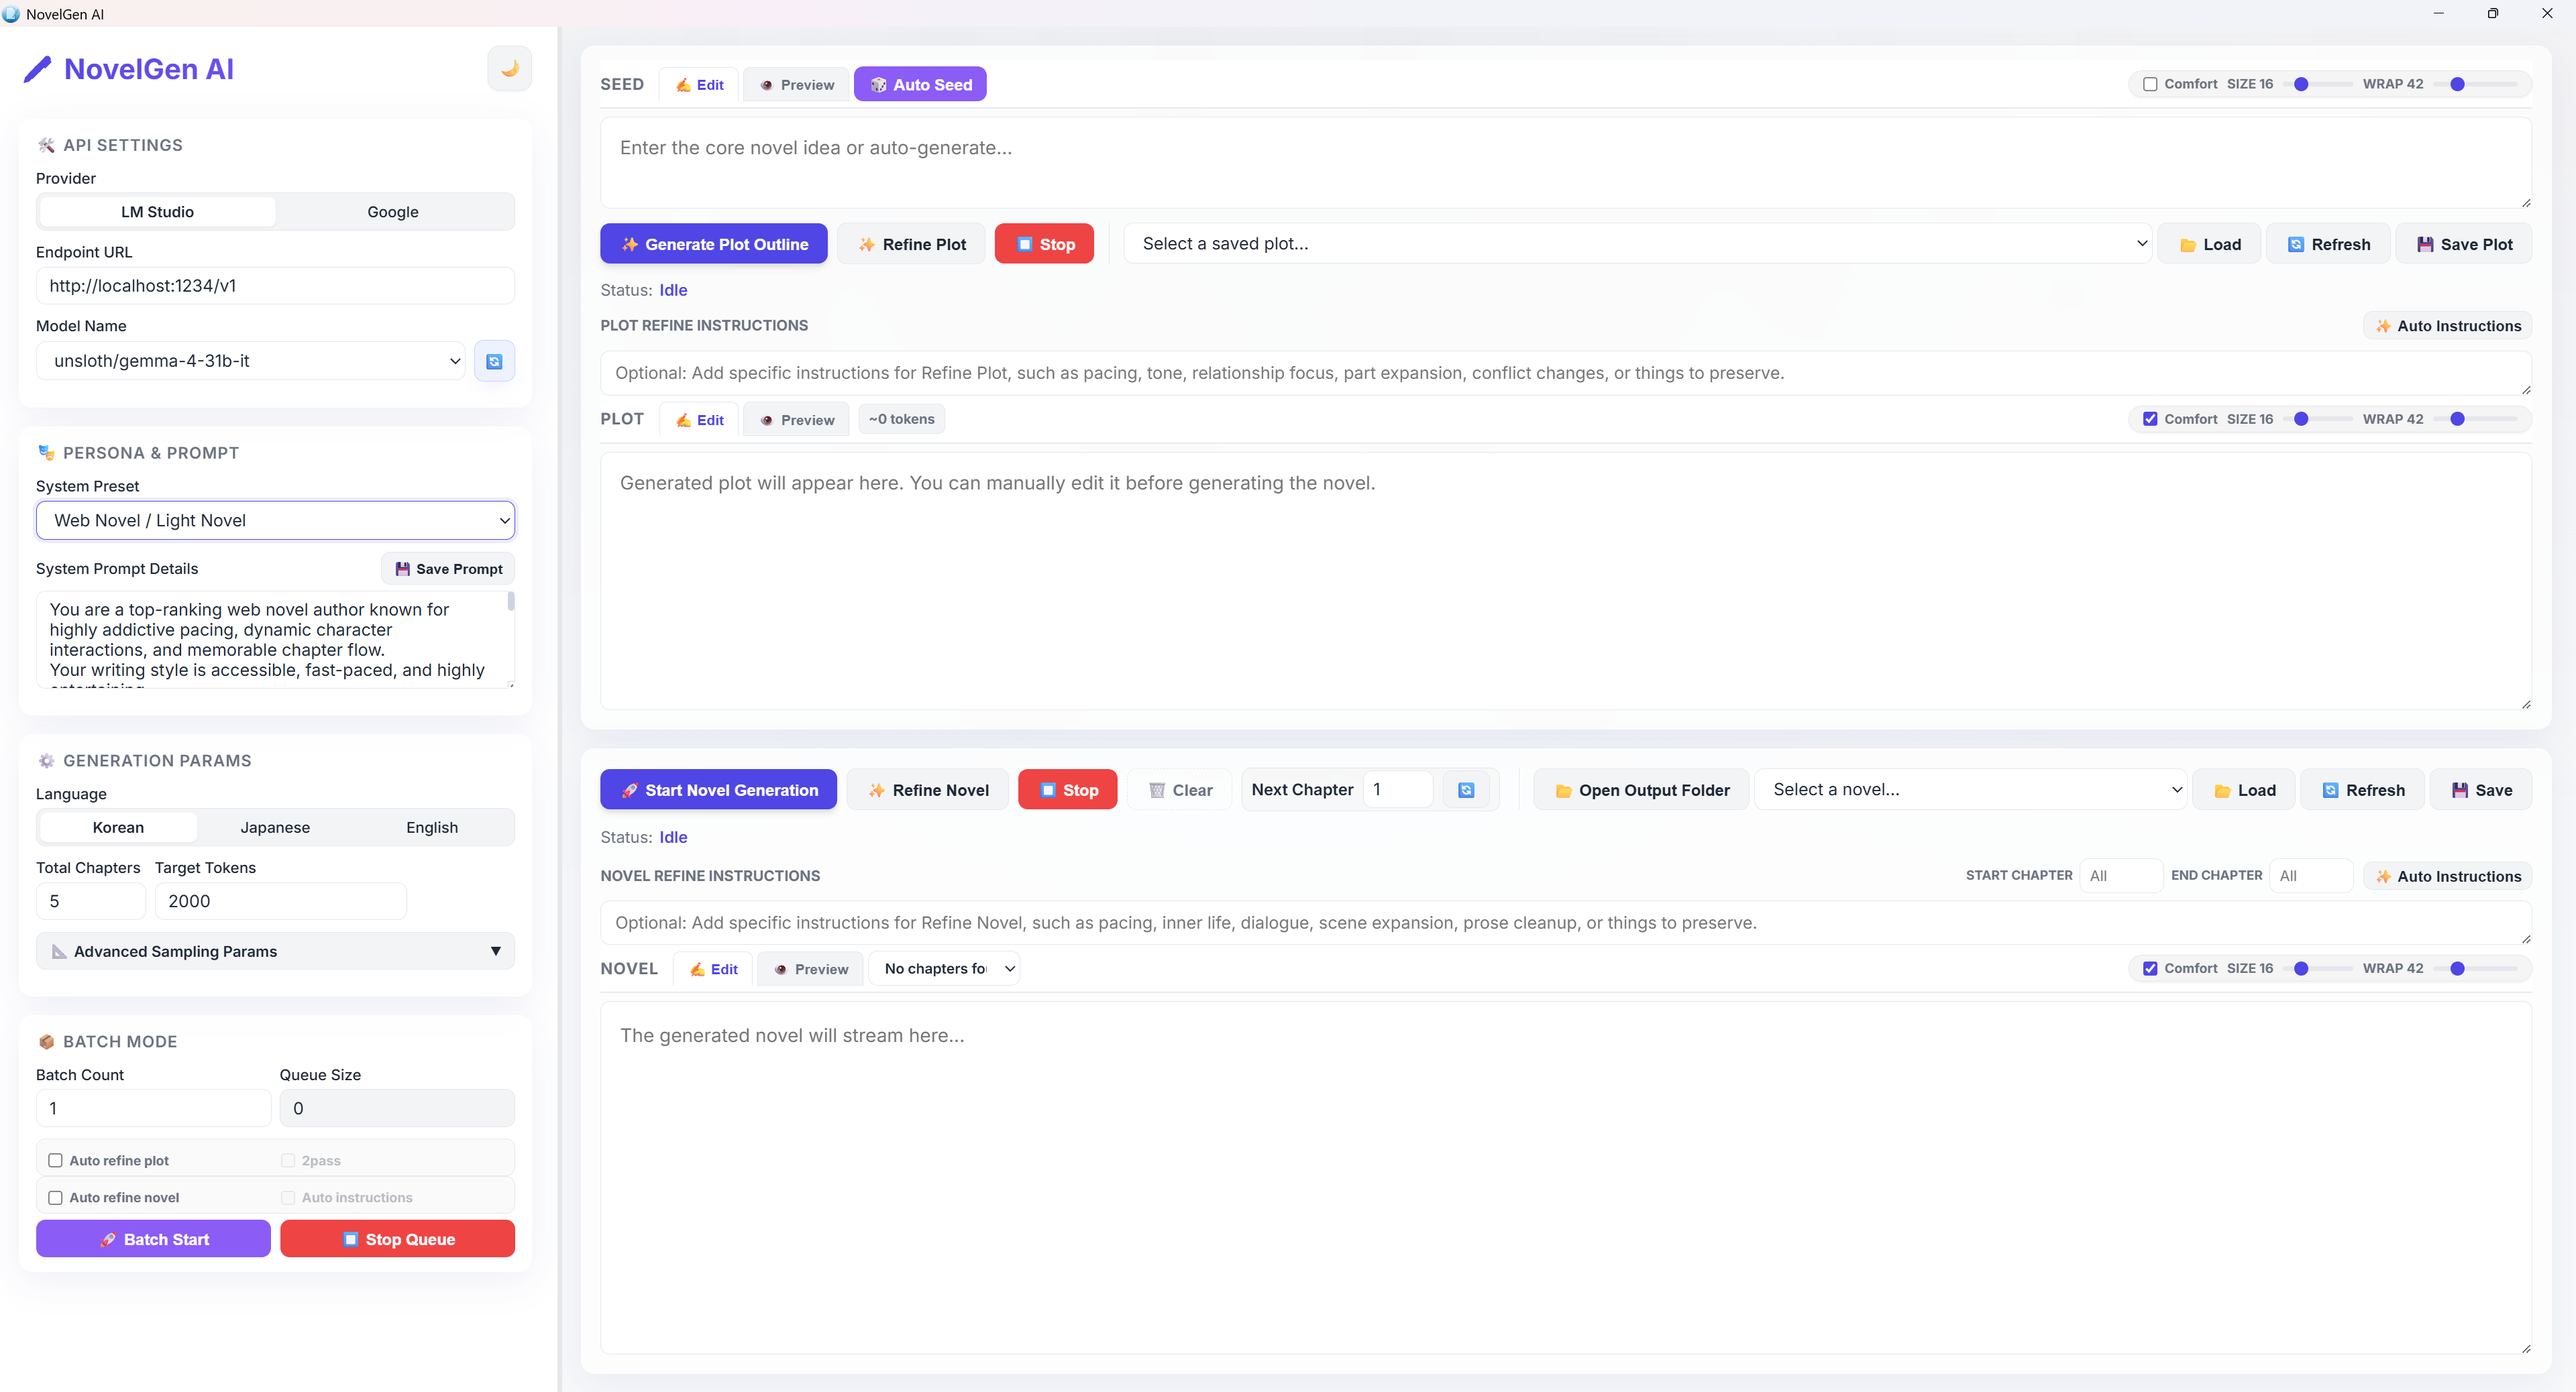
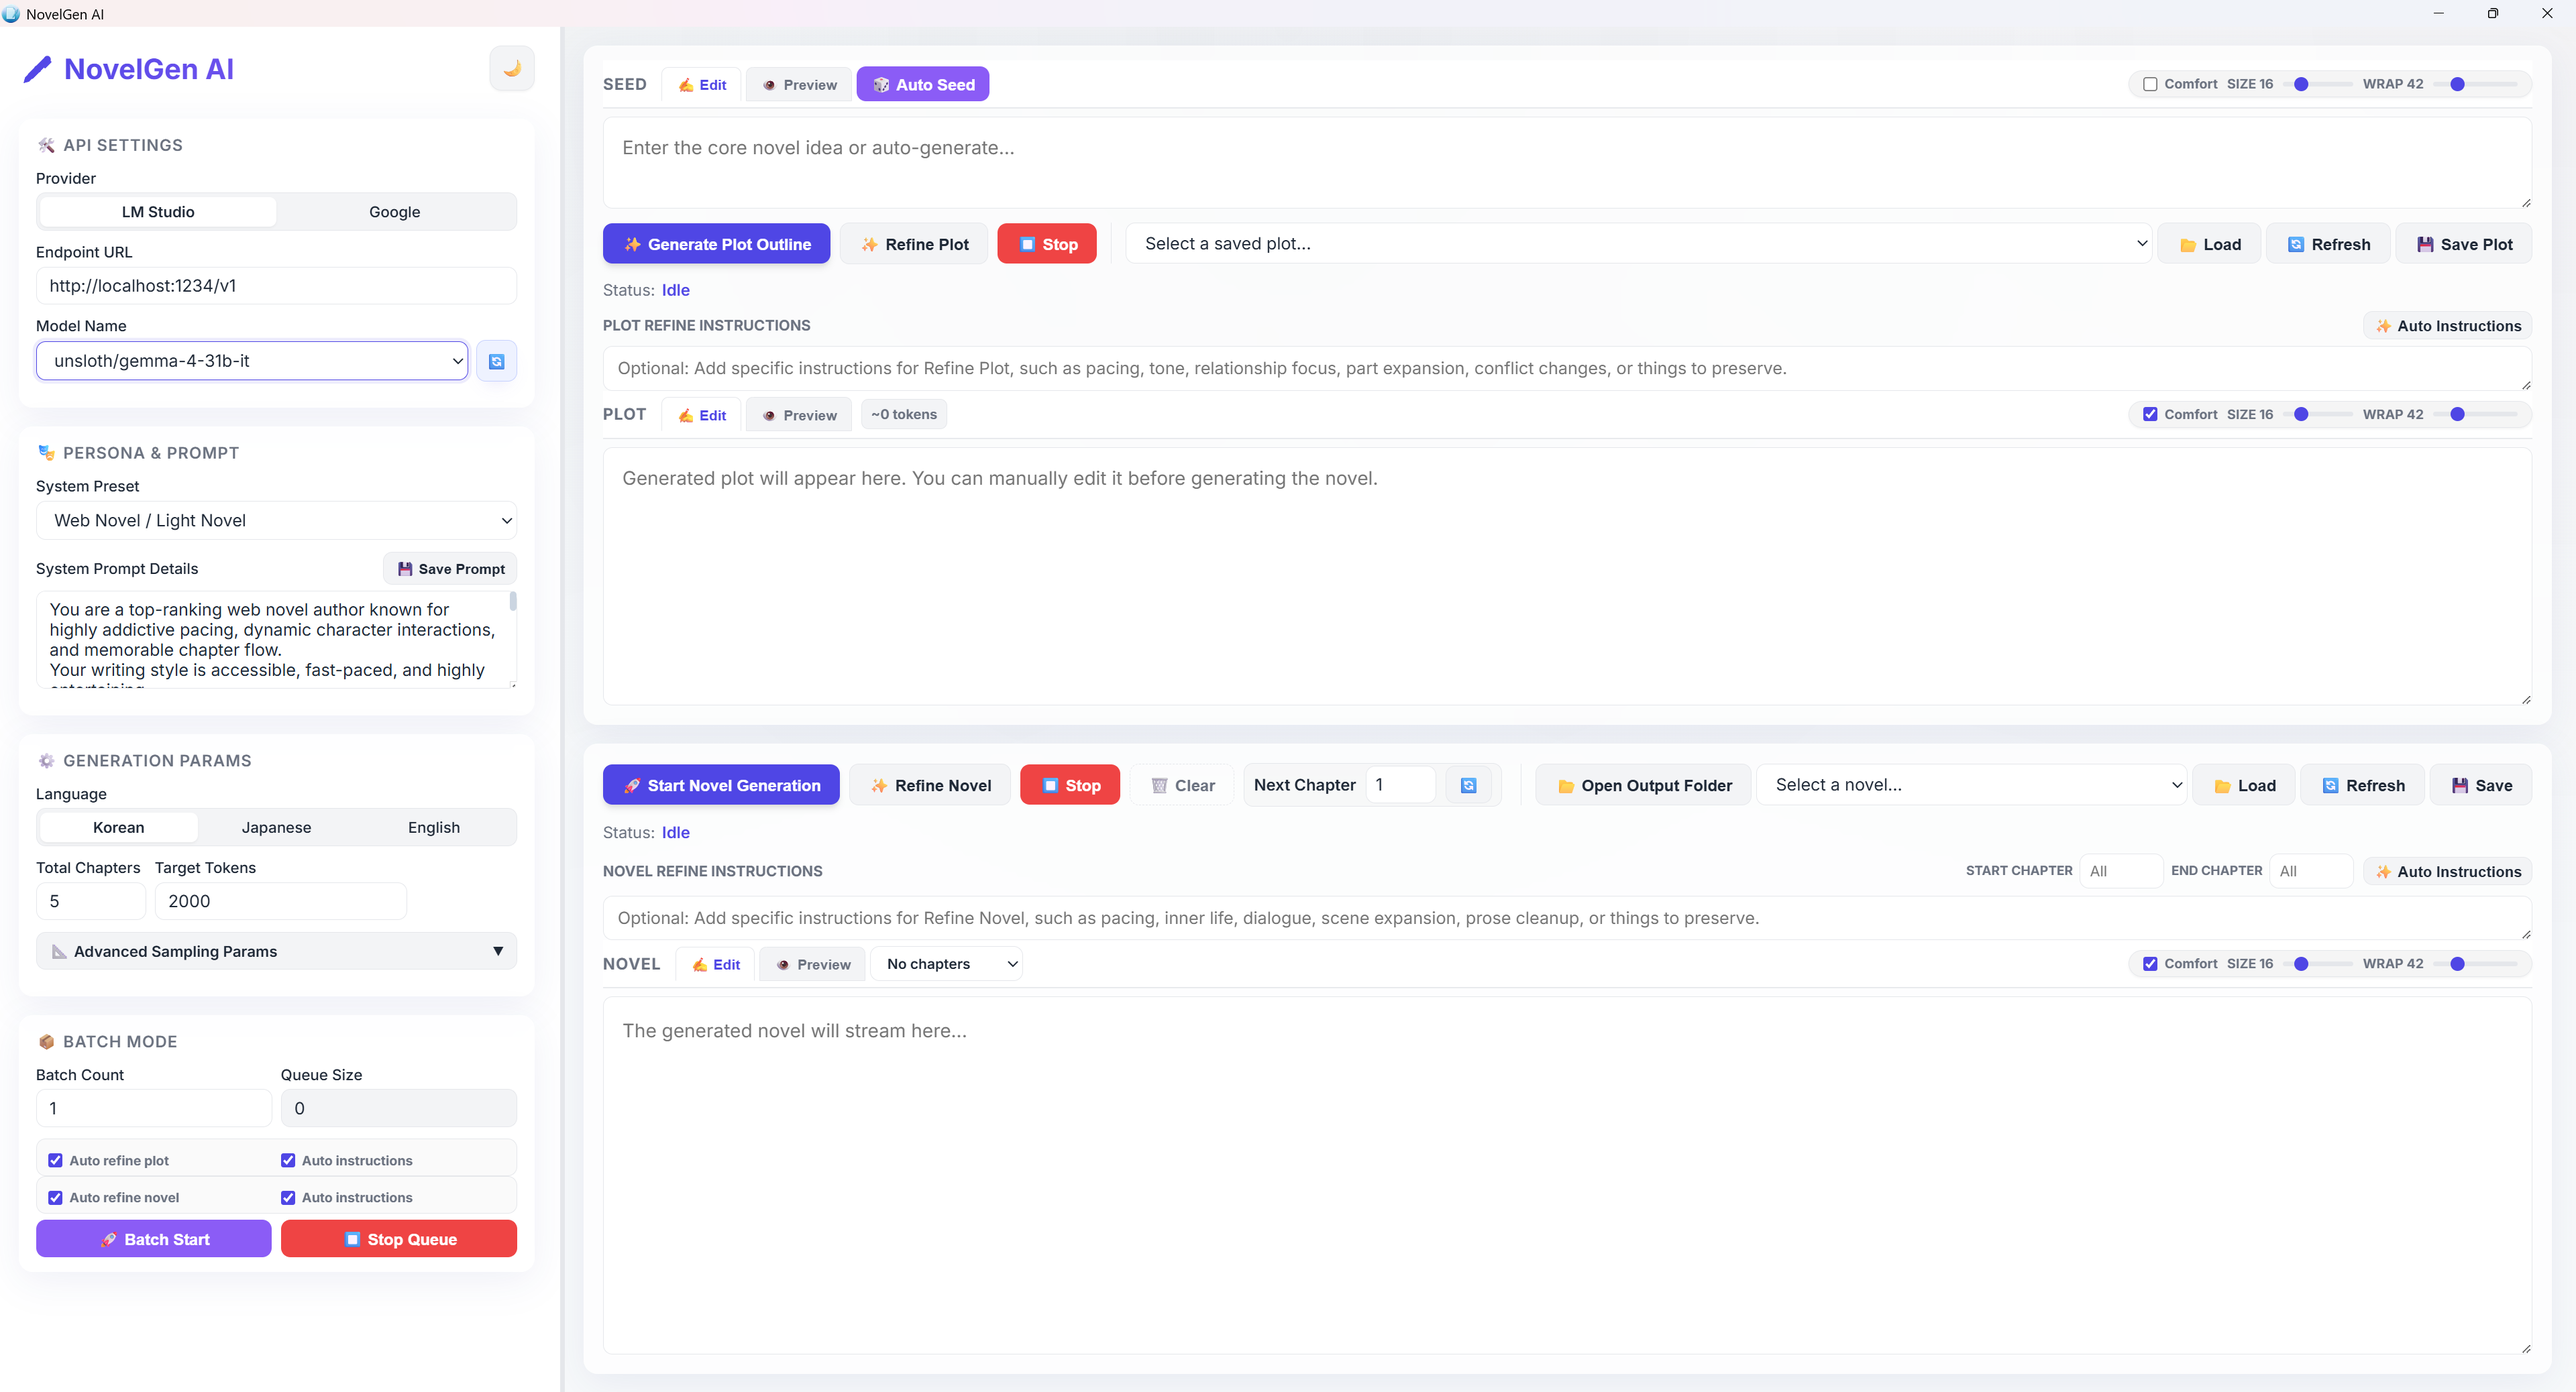
Refactor novel auto instructions and update docs

diff --git a/src/modules/novel_auto.js b/src/modules/novel_auto.js
@@ -1,0 +1,138 @@
+import { invoke } from './tauri_api.js';
+
+const NOVEL_AUTO_INSTRUCTION_SYSTEM_PROMPT =
+    'You are a professional fiction editor specializing in chapter-level refinement.';
+
+export function buildNovelAutoInstructionPrompt({
+    lang,
+    plotInfo,
+    prevChapterText,
+    currentChapterText,
+    nextChapterText,
+}) {
+    return `Your task is to produce a set of Refinement Instructions for the Current Chapter.
+These instructions will be handed directly to a rewriter. They must be actionable directives, not critique sentences.
+
+---
+
+## INPUT STRUCTURE
+
+- PLOT AND SETTING INFORMATION: global outline, character settings, worldbuilding rules, tone, genre, and major story direction.
+${plotInfo || "None."}
+
+- PREVIOUS CHAPTER:
+${prevChapterText || "None."}
+
+- CURRENT CHAPTER:
+${currentChapterText || "None."}
+
+- NEXT CHAPTER:
+${nextChapterText || "None."}
+
+---
+
+## REVIEW SCOPE
+
+Review ONLY the Current Chapter.
+Use the Plot and Setting Information to verify the Current Chapter's consistency with the intended story direction, character settings, worldbuilding rules, tone, and genre.
+Use the Previous Chapter and Next Chapter exclusively as context for:
+- Continuity of character state, tone, and information
+- Emotional momentum across chapter boundaries
+- Setup -> payoff chains that span chapters
+
+Do NOT review, rewrite, or critique the Previous or Next Chapter.
+
+---
+
+## WHAT TO ASSESS IN THE CURRENT CHAPTER
+
+Evaluate the following dimensions:
+
+1. Plot logic - cause-and-effect, scene purpose, stakes clarity
+2. Character motivation - are actions grounded in established psychology?
+3. Emotional continuity - does the emotional arc connect to the previous chapter and set up the next?
+4. Pacing and tension - scene rhythm, where the chapter breathes vs. accelerates
+5. Dialogue - naturalness, subtext, function (does each exchange do work?)
+6. Exposition - is it earned, or is it dumped? Is worldbuilding embedded in action?
+7. Sensory and atmospheric detail - specific enough to be immersive, not generic
+8. Transitions - between scenes, between interiority and action, between chapters
+9. Foreshadowing and payoff - anything planted or resolved well vs. underdeveloped
+10. Contradictions and gaps - character, logic, or continuity breaks
+
+---
+
+## OUTPUT: REFINEMENT INSTRUCTIONS
+
+Generate exactly 12 Refinement Instructions in ${lang}.
+Number them 1 through 12.
+
+Each instruction must follow this format:
+
+[LOCATION] -> [DIRECTIVE] -> [SCOPE]
+
+- LOCATION: Specify where in the Current Chapter (for example, "Opening paragraph", "The confrontation scene", "The protagonist's internal monologue after X event"). Be precise enough that a rewriter can find it without guessing.
+- DIRECTIVE: A single, clear action verb phrase. Use language like Sharpen, Condense, Expand, Replace, Reorder, Remove, Add, Preserve, Reframe, Ground, or Mark DO NOT ALTER.
+- SCOPE: Indicate the permitted scale of change - use one of: [MICRO] (word/phrase level), [LOCAL] (sentence or short paragraph), [SCENE] (scene-level restructure), or [PRESERVE] (protect a working passage from accidental over-editing). Never suggest changes beyond scene level unless a fatal plot contradiction requires it.
+
+---
+
+## CALIBRATION RULES
+
+These rules prevent over-editing. Follow them strictly.
+
+1. Preserve what works. If a passage is functioning well - strong voice, clear purpose, good pacing - do not issue an instruction targeting it. Silence means approval.
+2. No structural dismantling. Do not issue instructions that would delete or relocate major expository passages, character introductions, or scene-establishing blocks unless they are factually contradictory with established plot or character.
+3. Maximum one [SCENE] instruction. If more than one scene-level change feels necessary, select only the single most critical one. Prefer [LOCAL] or [MICRO] alternatives for the others.
+4. Do not change what adjacent chapters depend on. If the Previous or Next Chapter relies on a specific piece of information, tone, or character state established in the Current Chapter, mark it as DO NOT ALTER and use [PRESERVE] rather than issuing a change directive.
+5. Voice preservation. Stylistic quirks (sentence fragments, tonal shifts, unconventional punctuation) are intentional unless they cause genuine reader confusion. Do not sand them down.
+
+---
+
+## OUTPUT CONSTRAINTS
+
+- Write in ${lang}.
+- Each instruction must be one to three sentences maximum.
+- No praise, summary, meta-commentary, headings beyond numbering, or explanation of why you chose these points.
+- Do not rewrite any part of the chapter.
+- Do not address the author. Write as if the instructions are a task list for a rewriter.
+- If fewer than 12 genuine issues exist, issue a [PRESERVE] directive for the remaining slots to explicitly protect strong passages from accidental over-editing.`;
+}
+
+export function normalizeNovelAutoInstructions(text) {
+    return String(text || '')
+        .replace(/\r\n/g, '\n')
+        .split('\n')
+        .map(line => line.trimEnd())
+        .filter(line => line.trim())
+        .join('\n')
+        .trim();
+}
+
+export async function generateInstructionForChapter({
+    lang,
+    plotInfo,
+    prevChapterText,
+    currentChapterText,
+    nextChapterText,
+    apiParams,
+}) {
+    const result = await invoke('chat_completion', {
+        apiBase: apiParams.apiBase,
+        modelName: apiParams.modelName,
+        apiKey: apiParams.apiKey || 'lm-studio',
+        systemPrompt: NOVEL_AUTO_INSTRUCTION_SYSTEM_PROMPT,
+        prompt: buildNovelAutoInstructionPrompt({
+            lang,
+            plotInfo,
+            prevChapterText,
+            currentChapterText,
+            nextChapterText,
+        }),
+        temperature: 0.45,
+        topP: 0.9,
+        maxTokens: 3000,
+        repetitionPenalty: 1.1,
+    });
+
+    return normalizeNovelAutoInstructions(result);
+}

diff --git a/src/modules/novel_refine.js b/src/modules/novel_refine.js
@@ -1,5 +1,6 @@
 import { AppState } from './app_state.js';
 import { els } from './dom_refs.js';
+import { generateInstructionForChapter } from './novel_auto.js';
 import { renderMarkdown, schedulePreviewRender } from './preview.js';
 import { Channel, invoke } from './tauri_api.js';
 import { showToast } from './toast.js';
@@ -411,7 +412,7 @@ REFINE GOALS:
 - Preserve the current chapter's core events, continuity, named characters, world rules, and ending direction.
 - The revised chapter must be complete from its opening beat through its final beat. Do not omit, summarize, or cut off the chapter ending.
 - Do not rewrite the plot from scratch.
-- Keep the revised body close to the original length, or less than 10% longer when scenes are compressed.
+- Keep the revised body close to the original length, or 10~20% longer when scenes are compressed.
 - Prefer specific observable reactions over broad generalized reactions.
 - Let readers feel meaning through scene results instead of explanatory commentary.
 - Vary sentence length; after a long description, place a short reaction or consequence.
@@ -814,57 +815,6 @@ async function saveRefinedNovelState({ finalText, lang, chapters, plotOutline })
 
     AppState.setLoadedNovel(filename, metadata);
     return filename;
-}
-
-export async function generateInstructionForChapter({
-    lang, plotInfo, prevChapterText, currentChapterText, nextChapterText, apiParams
-}) {
-    const systemPrompt = "You are reviewing one chapter of a long novel.";
-    const prompt = `INPUT:
-1. Plot and setting information, including the global outline, character settings, worldbuilding rules, tone, genre, and major story direction.
-${plotInfo || "None."}
-
-2. Previous Chapter.
-${prevChapterText}
-
-3. Current Chapter.
-${currentChapterText}
-
-4. Next Chapter.
-${nextChapterText}
-
-TASK:
-Review only the Current Chapter.
-Use the Previous Chapter and Next Chapter only as context for continuity, emotional flow, pacing, setup, payoff, and chapter-to-chapter momentum.
-Do not review or rewrite the Previous Chapter or Next Chapter unless they directly affect the Current Chapter.
-
-Focus on:
-- Plot logic and cause-and-effect.
-- Character motivation and emotional continuity.
-- Consistency with the plot, setting, worldbuilding, and character information.
-- Pacing, tension, scene purpose, dialogue, exposition, and transitions.
-- Continuity with the Previous Chapter and momentum toward the Next Chapter.
-- Foreshadowing, payoff, contradictions, weak scenes, missing motivation, or unclear stakes.
-
-Output exactly 10 sentences in ${lang}.
-Number them from 1 to 10.
-Each sentence must be a concrete improvement point for the Current Chapter.
-Do not include praise, summary, greetings, explanations, headings, bullet points, or meta-commentary.
-Do not rewrite the chapter.`;
-
-    const result = await invoke("chat_completion", {
-        apiBase: apiParams.apiBase,
-        modelName: apiParams.modelName,
-        apiKey: apiParams.apiKey || "lm-studio",
-        systemPrompt: systemPrompt,
-        prompt: prompt,
-        temperature: 0.7,
-        topP: 0.9,
-        maxTokens: 2000,
-        repetitionPenalty: 1.1
-    });
-
-    return result.trim();
 }
 
 export async function refineNovelTextInChapters({

diff --git a/src/main.js b/src/main.js
@@ -13,9 +13,9 @@ import {
     clearNovelRefineChapterRange,
     getNovelChapterHeadings,
     refineNovelByChapters,
-    splitNovelIntoChapterBlocks,
-    generateInstructionForChapter
+    splitNovelIntoChapterBlocks
 } from './modules/novel_refine.js';
+import { generateInstructionForChapter } from './modules/novel_auto.js';
 import { loadNovelState } from './modules/novel_storage.js';
 import { generatePlotAutoInstructions } from './modules/plot_auto.js';
 import { refinePlotInChunks } from './modules/plot_refine.js';

diff --git a/README.md b/README.md
@@ -136,11 +136,9 @@ Generate multiple novels or handle high-volume creation automatically.
 1.  **Setup**: Enter your concept in the **Plot Seed** box and set the **Batch Count**.
 2.  **Optional Refinement Settings**:
     - **Auto refine plot**: Automatically refines the outline in chunks before starting novel generation.
-        - **Auto instructions**: Dynamically generates tailored improvement points for the plot during the refinement process.
+        - **Auto instructions**: Automatically generates tailored improvement points for the plot during the refinement process.
     - **Auto refine novel**: Automatically runs the chapter-by-chapter refinement pipeline after the draft is complete.
-        - **Auto instructions**: Dynamically generates tailored improvement points for each specific chapter during the refinement process.
-          > [!CAUTION]
-          > This may cause unintended major changes to the novel. Rather than applying Auto instructions as-is, it is highly recommended to manually verify them and keep only the strictly necessary instructions.
+        - **Auto instructions**: Automatically generates tailored improvement points for each specific chapter during the refinement process.
 3.  **Execution**: Click **🚀 Batch Start**. The system will sequentially:
     - Brainstorm unique plots for each batch job.
     - Apply requested auto-refinements to plots and manuscripts.
